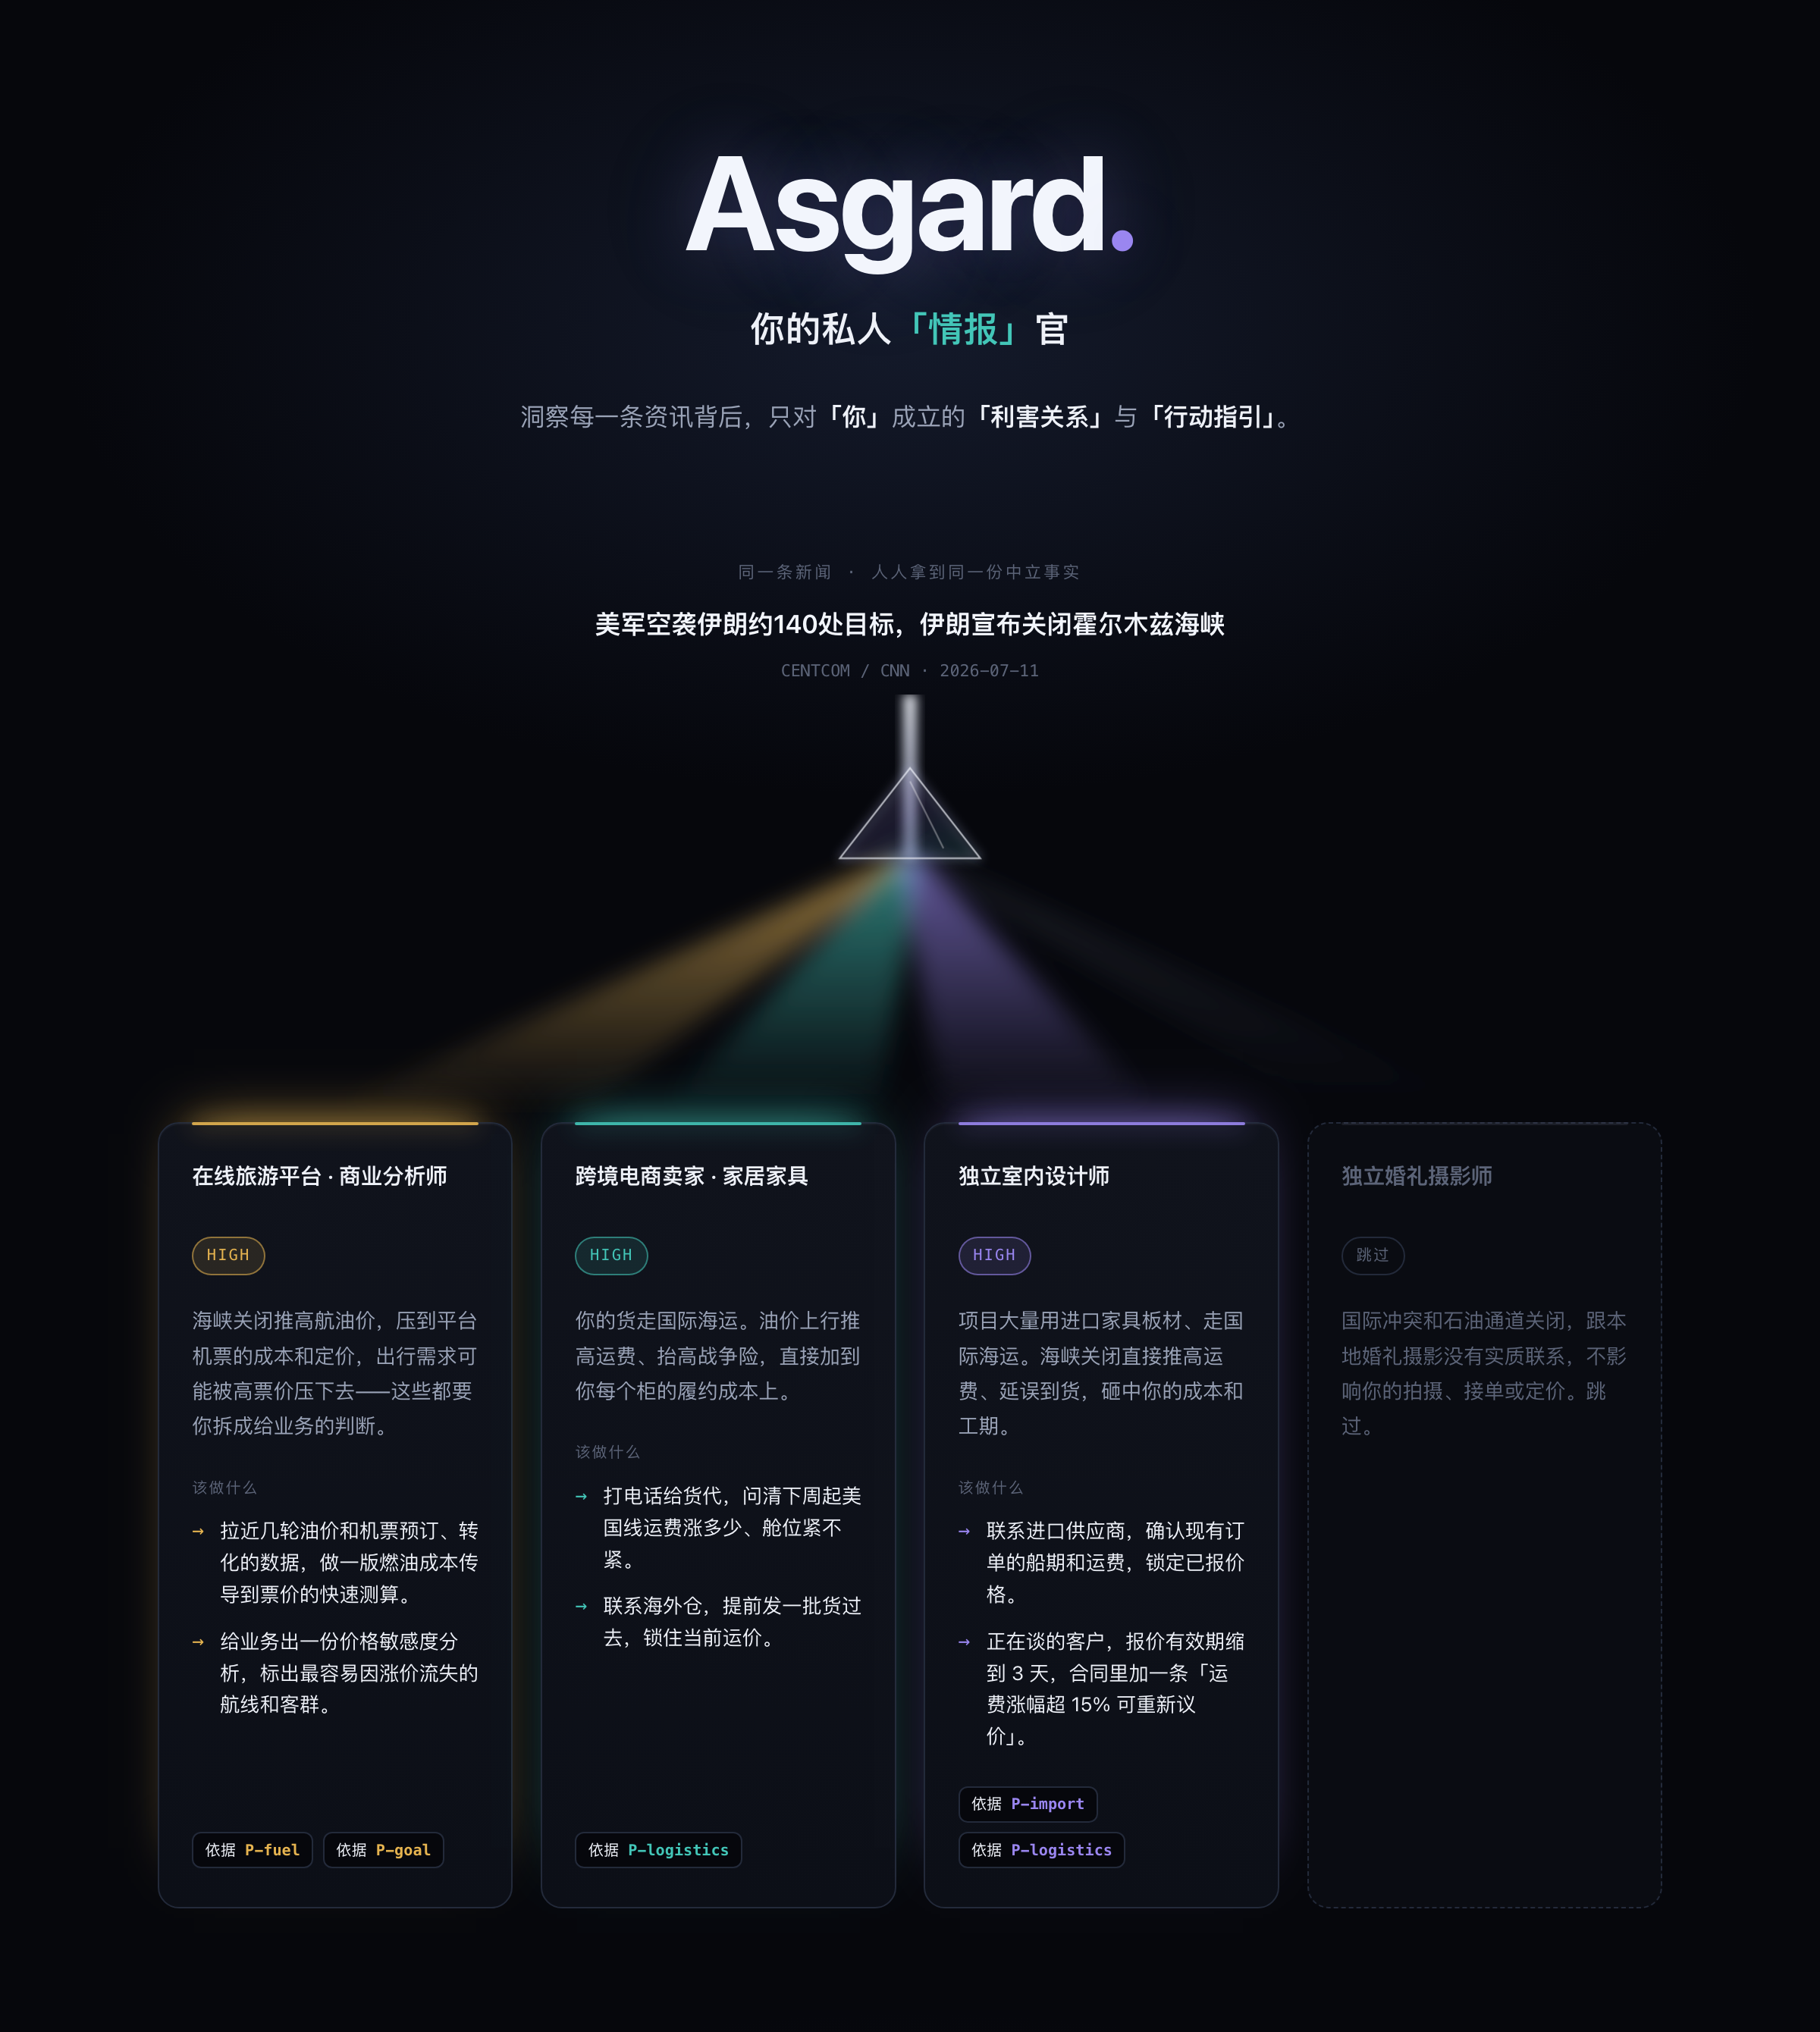
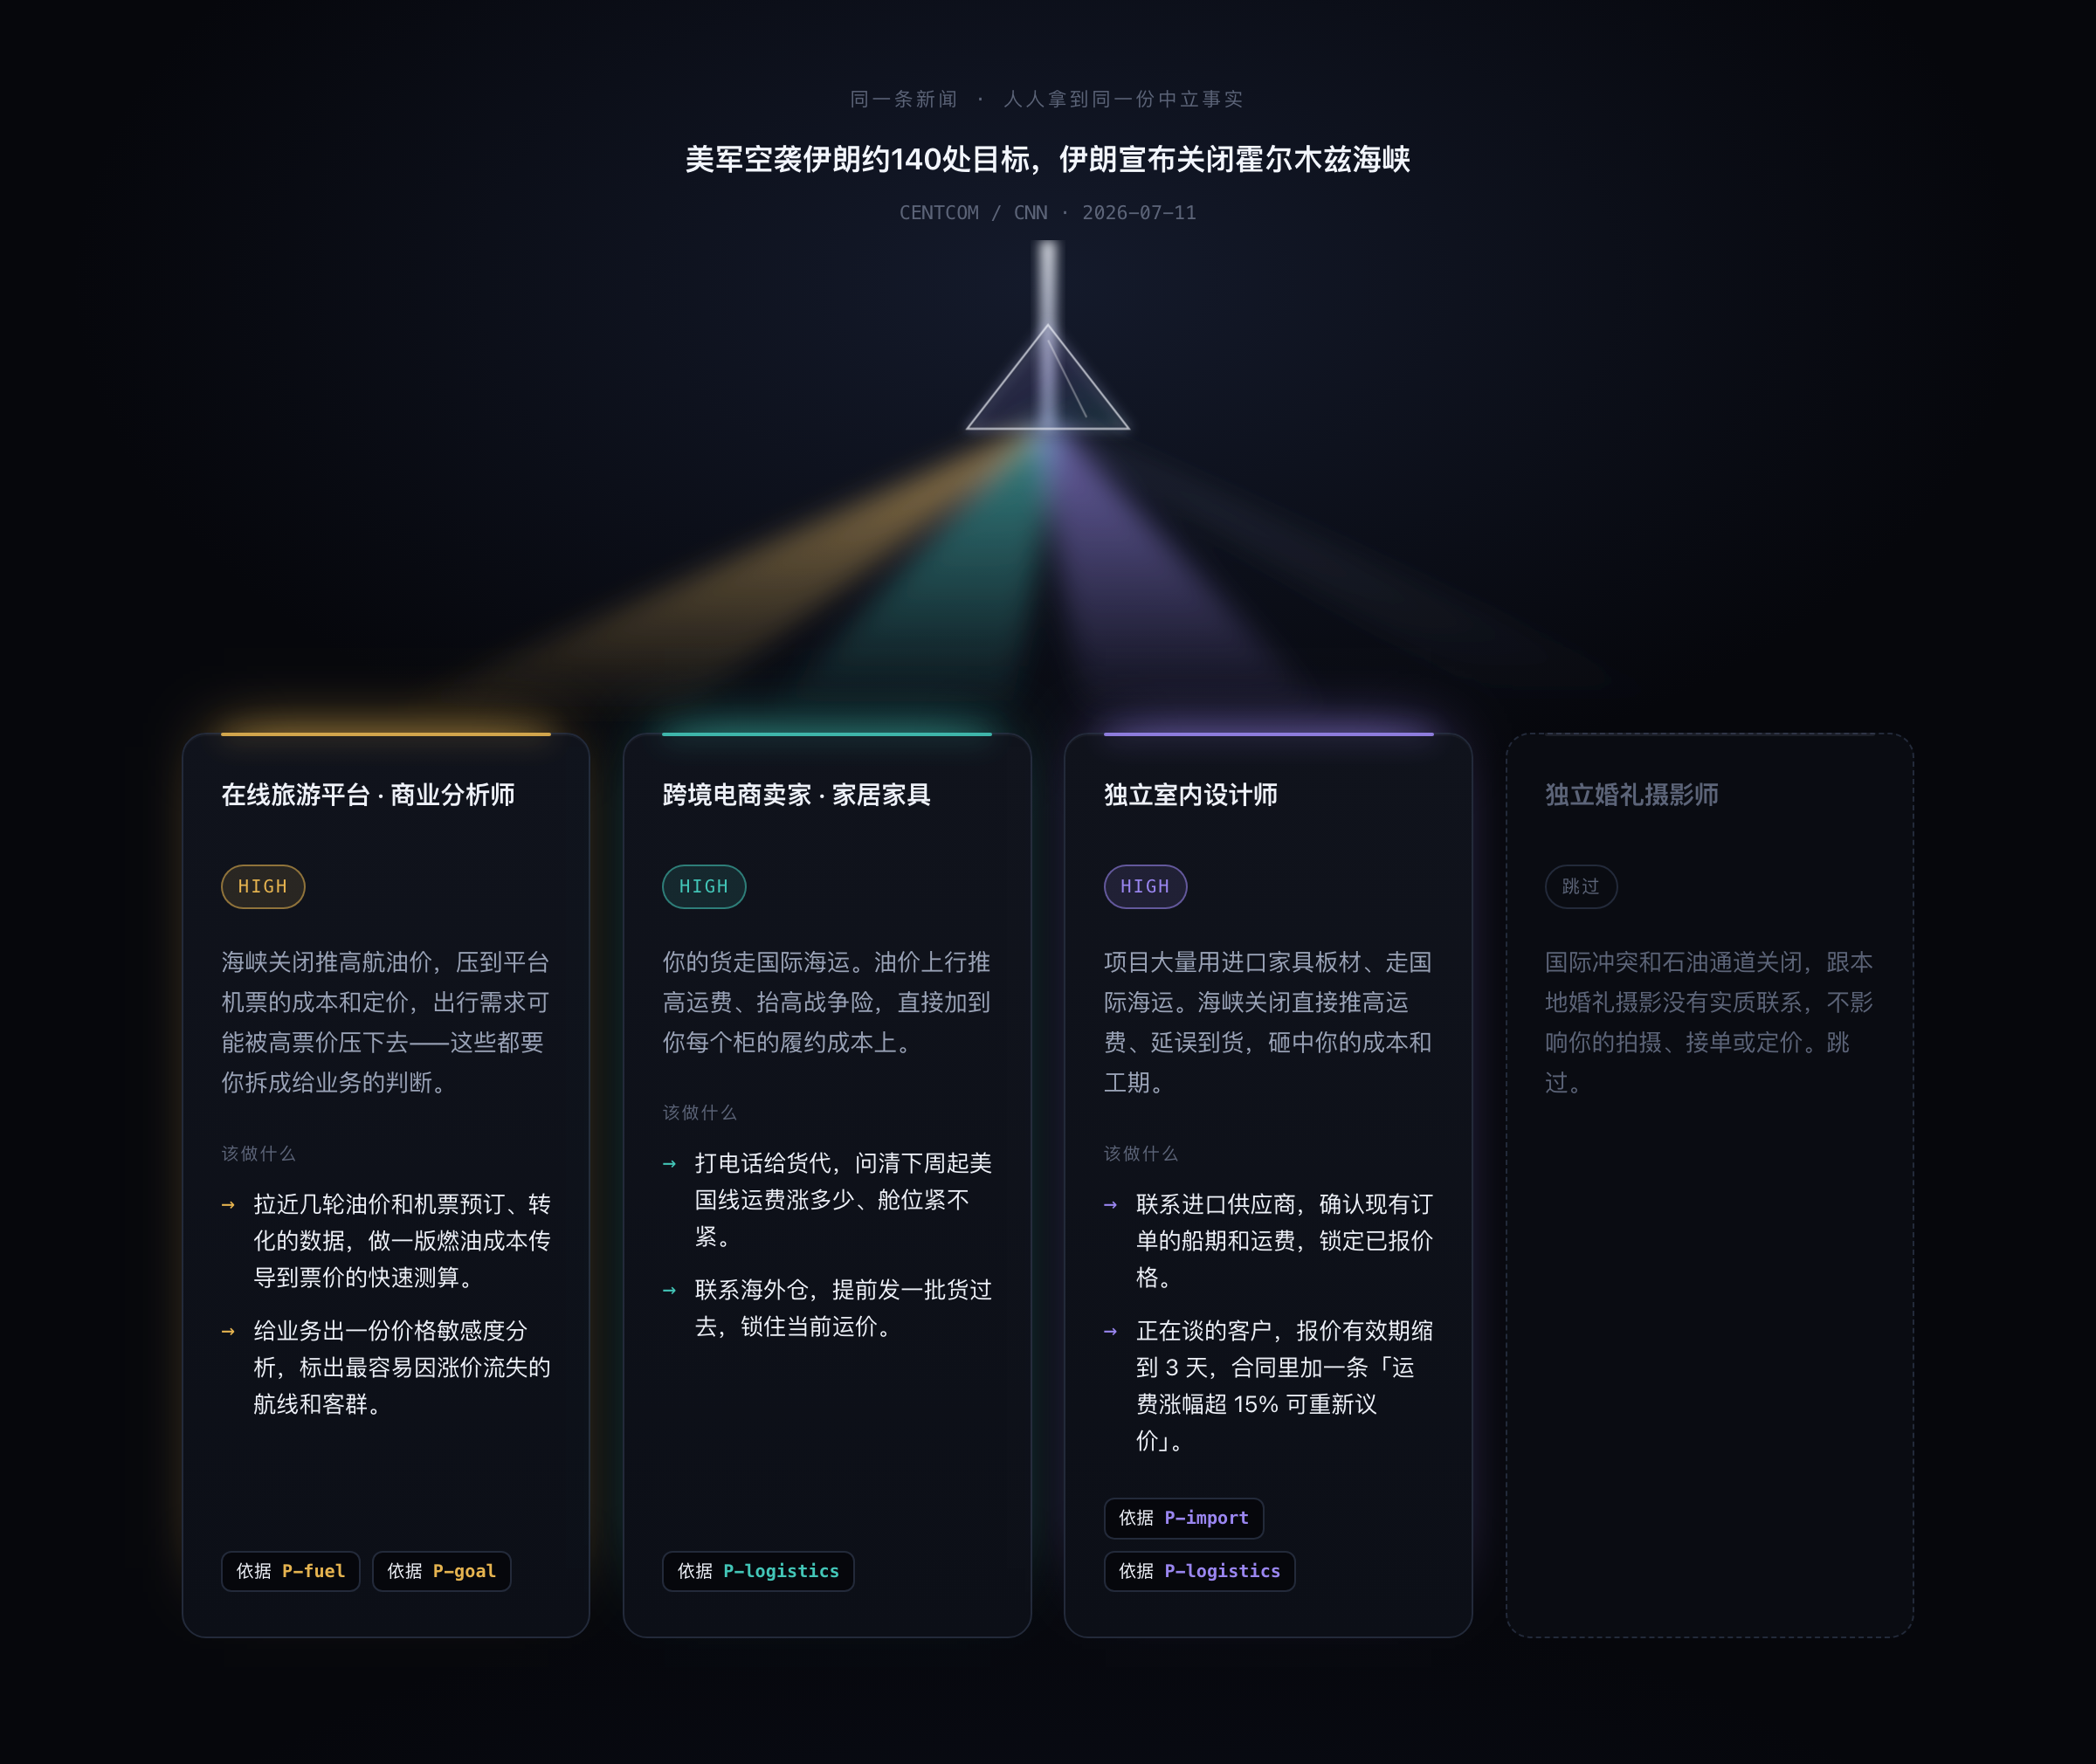
README: restructure to centered header, apparatus-only hero, split-language pages
- fix top language-switch line rendering as raw markdown (HTML-block swallowed inline md)
- drop in-image brand block from hero.png (was duplicating the README title)
- centered header: name, one-line claim, quick links, status badges
- Chinese page pure Chinese, English mirror in README.en.md
- repo About: description, homepage, topics

diff --git a/README.en.md b/README.en.md
@@ -1,18 +1,22 @@
-<!-- lang-switch --> [简体中文](./README.md)　·　**English**
+<div align="center">
 
 # Asgard
 
-**One piece of news, cut down to what's actually at stake for you and what you can do about it this week — and when it isn't yours, it says so.**
+**One piece of news, cut down to the stakes that are actually yours and the moves you can make this week — and when it isn't yours, it says so.**
 
-Asgard rewrites a news item into the part that's yours — given who you are, what you do, what you care about: how it hits you, what you can do this week. When it doesn't touch you, it says "not yours" instead of inventing an angle.
+<a href="https://rockychan112.github.io/asgard/"><b>Live demo</b></a> · <a href="./eval/README.md">Eval report</a> · <a href="./README.md">简体中文</a>
 
-Below is one real news item sent to four different people: three get their own stakes and moves; the fourth — skip.
+<img alt="status: pre-alpha" src="https://img.shields.io/badge/status-pre--alpha-d97706"> <img alt="python 3.11+" src="https://img.shields.io/badge/python-3.11+-3b82f6">
+
+</div>
+
+Asgard rewrites a news item into the part that's yours — given who you are, what you do, and what you care about: how it hits you, and what you can do about it this week. When it doesn't touch you, it says "not yours" instead of inventing an angle.
+
+One real news item, sent to four different people — three get their own stakes and moves; the fourth, a skip:
 
 [![One high-stakes news item refracted to four identities: three get their own stakes and actions, the fourth is an honest SKIP](design/hero.png)](https://rockychan112.github.io/asgard/)
 
-<p align="center"><sub>One news item (a fixed sample), one shared set of neutral facts — only what it means per person changes. The last card is an honest SKIP.　·　<a href="https://rockychan112.github.io/asgard/">▶ Open the interactive demo</a></sub></p>
-
-`pre-alpha` — an open exploration, not a finished product. What runs today: `brief` (refract one news item per person) and `eval` (the test below).
+<p align="center"><sub>Everyone gets the same neutral facts — only what it means per person changes; the last card is an honest SKIP　·　<a href="https://rockychan112.github.io/asgard/">▶ interactive version</a></sub></p>
 
 ## Why this isn't a persona-prompt wrapper
 
@@ -20,7 +24,7 @@ Three deliberate choices separate Asgard from "hand a general assistant a charac
 
 1. **Facts and reading are separate layers** — every persona shares one neutral set of facts (`Event`); only the consequences, priorities, and actions change. Personalization never rewrites what happened, and never builds an echo chamber.
 2. **No claim without a citation** — every stake and every action must cite a `P-id` from your profile, or it doesn't ship. You can see *why* it says what it says.
-3. **An honest SKIP** — when it isn't yours, it says so. (Saying "this one isn't for you" is the one thing a wrapper can't fake.)
+3. **An honest SKIP** — when it isn't yours, it says so. Saying "this one isn't for you" is the one thing a wrapper can't fake.
 
 ## It does what similar tools won't: it tests itself, in public, for faking it
 
@@ -32,7 +36,7 @@ What it *does* win is two humbler things: it's more reliable at saying "this one
 
 > It is built to be able to falsify its own tool. It did.
 
-Full method, numbers, where it failed, the limits → [`eval/`](eval/README.md)
+Full method, numbers, where it failed, and the limits → [`eval/`](eval/README.md)
 
 ## Quickstart
 
@@ -73,4 +77,5 @@ Each persona in `personas/*.yaml` is a **structured contract** — id'd facts yo
 Honestly, today Asgard is this: **a reproducible personalization-memory protocol, a harness that can sink its own claims, and a more restrained, auditable brief tool.** Whether it grows into more gets decided in the open.
 
 ---
-<sub>Local-first · bring your own model · zero telemetry</sub>
+
+<div align="center"><sub>Local-first · bring your own model · zero telemetry</sub></div>